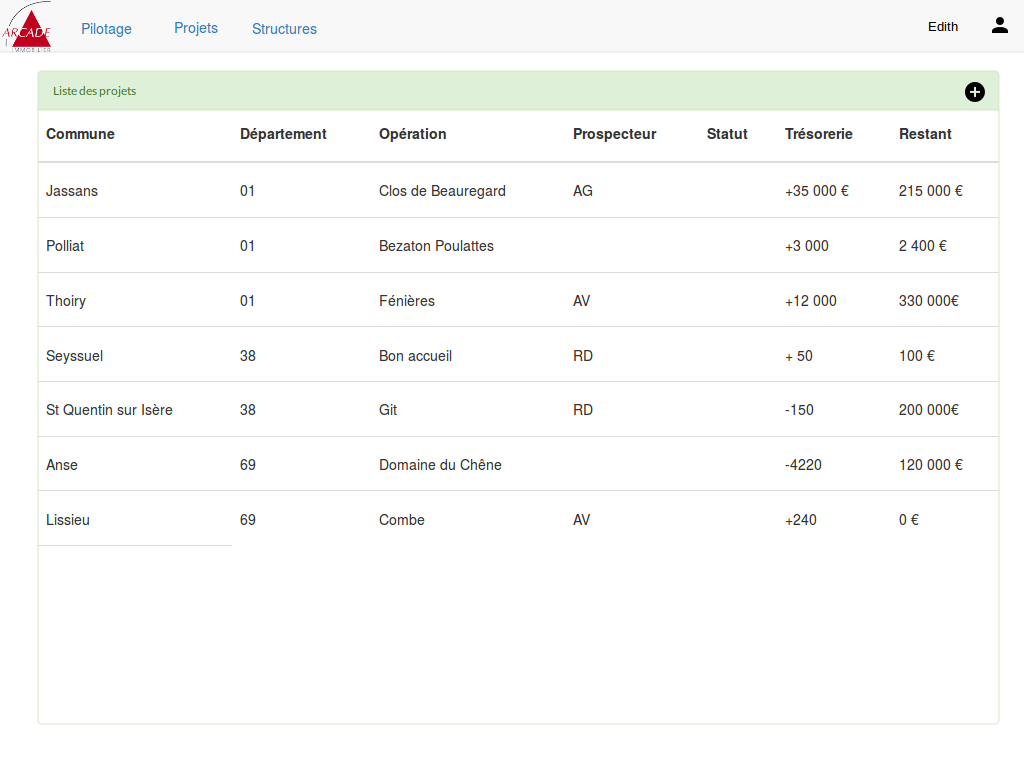
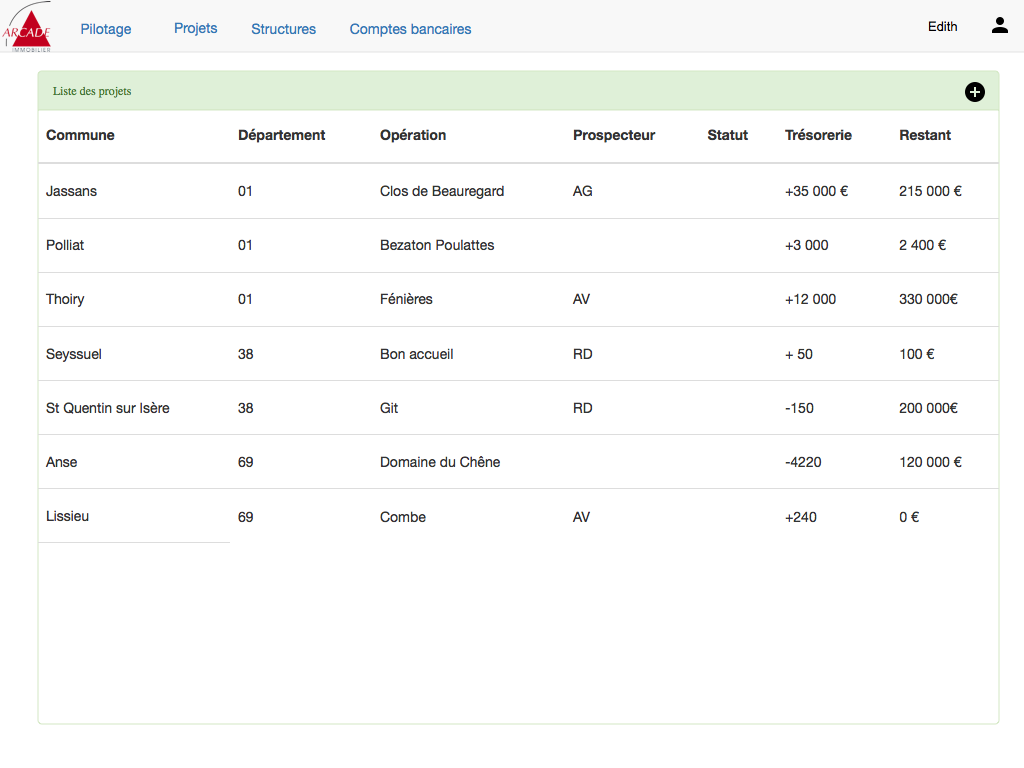
generate application

diff --git a/public/index.html b/public/index.html
@@ -1,3 +1,1 @@
-<html xmlns="http://www.w3.org/1999/xhtml"><head><meta http-equiv="Content-Type" content="text/html; charset=UTF-8" /><title>Maquette-Treso-V0.ep</title><script type="text/javascript" src="Resources/Script.js">
-                    //
-                </script></head><body><div id="page"><div id="content"><h1 id="documentTitle"><span>Maquette-Treso-V0.ep</span></h1><div class="Page" id="pilotage_page"><div class="Texts"><h2 class="Title">Pilotage</h2></div><div class="Image"><img width="1024" height="768" src="pages/pilotage.png" usemap="#map_pilotage" id="pilotage_page_image" /><div class="ImageFooter"> </div><map name="map_pilotage"><area shape="rect" coords="235,6,333,48" href="#listestructure_page" title="Go to page 'Liste-Structure'" /><area shape="rect" coords="147,5,245,47" href="#listeprojets_page" title="Go to page 'Liste-Projets'" /><area shape="rect" coords="57,6,155,48" href="#pilotage_page" title="Go to page 'Pilotage'" /><area shape="rect" coords="453,706,582,748" href="#simulation_page" title="Go to page 'Simulation'" /><area shape="rect" coords="666.5,158,968.6166687011719,381.8333282470703" href="#structure_page" title="Go to page 'Structure'" /><area shape="rect" coords="687.7833251953125,457,968.6166381835938,680.8166656494141" href="#projet_page" title="Go to page 'Projet'" /></map></div></div><div class="Page" id="simulation_page"><div class="Texts"><h2 class="Title">Simulation</h2></div><div class="Image"><img width="1024" height="768" src="pages/simulation.png" usemap="#map_simulation" id="simulation_page_image" /><div class="ImageFooter"> </div><map name="map_simulation"><area shape="rect" coords="235,6,333,48" href="#listestructure_page" title="Go to page 'Liste-Structure'" /><area shape="rect" coords="147,5,245,47" href="#listeprojets_page" title="Go to page 'Liste-Projets'" /><area shape="rect" coords="57,6,155,48" href="#pilotage_page" title="Go to page 'Pilotage'" /><area shape="rect" coords="963,338,987,362" href="#simulation_courtage_page" title="Go to page 'Simulation - Courtage'" /><area shape="rect" coords="963,580,987,604" href="#simulation_courtage_page" title="Go to page 'Simulation - Courtage'" /><area shape="rect" coords="963,458,987,482" href="#simulation_courtage_page" title="Go to page 'Simulation - Courtage'" /></map></div></div><div class="Page" id="simulation_courtage_page"><div class="Texts"><h2 class="Title">Simulation - Courtage</h2></div><div class="Image"><img width="1024" height="768" src="pages/simulation_courtage.png" usemap="#map_simulation_courtage" id="simulation_courtage_page_image" /><div class="ImageFooter"> </div><map name="map_simulation_courtage"><area shape="rect" coords="235,6,333,48" href="#listestructure_page" title="Go to page 'Liste-Structure'" /><area shape="rect" coords="147,5,245,47" href="#listeprojets_page" title="Go to page 'Liste-Projets'" /><area shape="rect" coords="58,5,156,47" href="#pilotage_page" title="Go to page 'Pilotage'" /><area shape="rect" coords="368,666,515,708" href="#simulation_page" title="Go to page 'Simulation'" /><area shape="rect" coords="541,665,679,707" href="#simulationrsultat_page" title="Go to page 'Simulation-Résultat'" /></map></div></div><div class="Page" id="simulationrsultat_page"><div class="Texts"><h2 class="Title">Simulation-Résultat</h2></div><div class="Image"><img width="1024" height="768" src="pages/simulationrsultat.png" usemap="#map_simulationrsultat" id="simulationrsultat_page_image" /><div class="ImageFooter"> </div><map name="map_simulationrsultat"><area shape="rect" coords="235,6,333,48" href="#listestructure_page" title="Go to page 'Liste-Structure'" /><area shape="rect" coords="147,5,245,47" href="#listeprojets_page" title="Go to page 'Liste-Projets'" /><area shape="rect" coords="57,6,155,48" href="#pilotage_page" title="Go to page 'Pilotage'" /></map></div></div><div class="Page" id="listeprojets_page"><div class="Texts"><h2 class="Title">Liste-Projets</h2></div><div class="Image"><img width="1024" height="768" src="pages/listeprojets.png" usemap="#map_listeprojets" id="listeprojets_page_image" /><div class="ImageFooter"> </div><map name="map_listeprojets"><area shape="rect" coords="235,6,333,48" href="#listestructure_page" title="Go to page 'Liste-Structure'" /><area shape="rect" coords="147,5,245,47" href="#listeprojets_page" title="Go to page 'Liste-Projets'" /><area shape="rect" coords="57,6,155,48" href="#pilotage_page" title="Go to page 'Pilotage'" /><area shape="rect" coords="38,107,999,569" href="#projet_page" title="Go to page 'Projet'" /></map></div></div><div class="Page" id="projet_page"><div class="Texts"><h2 class="Title">Projet</h2></div><div class="Image"><img width="1024" height="768" src="pages/projet.png" usemap="#map_projet" id="projet_page_image" /><div class="ImageFooter"> </div><map name="map_projet"><area shape="rect" coords="235,6,333,48" href="#listestructure_page" title="Go to page 'Liste-Structure'" /><area shape="rect" coords="147,5,245,47" href="#listeprojets_page" title="Go to page 'Liste-Projets'" /><area shape="rect" coords="57,6,155,48" href="#pilotage_page" title="Go to page 'Pilotage'" /><area shape="rect" coords="11,634,549,682" href="#projetvente_page" title="Go to page 'Projet-Vente'" /><area shape="rect" coords="12,388,550,436" href="#projetfoncier_page" title="Go to page 'Projet-Foncier'" /></map></div></div><div class="Page" id="projetfoncier_page"><div class="Texts"><h2 class="Title">Projet-Foncier</h2></div><div class="Image"><img width="1024" height="768" src="pages/projetfoncier.png" usemap="#map_projetfoncier" id="projetfoncier_page_image" /><div class="ImageFooter"> </div><map name="map_projetfoncier"><area shape="rect" coords="235,6,333,48" href="#listestructure_page" title="Go to page 'Liste-Structure'" /><area shape="rect" coords="147,5,245,47" href="#listeprojets_page" title="Go to page 'Liste-Projets'" /><area shape="rect" coords="57,6,155,48" href="#pilotage_page" title="Go to page 'Pilotage'" /><area shape="rect" coords="446.3833312988281,298.95001220703125,496.3999938964844,319.9666748046875" href="#echeanceremplies_page" title="Go to page 'Echeance-remplies'" /><area shape="rect" coords="446.7833251953125,329.20001220703125,498.34999084472656,350.2166748046875" href="#echeanceremplies_page" title="Go to page 'Echeance-remplies'" /><area shape="rect" coords="446.51666259765625,267.1499938964844,498.0833282470703,288.1666717529297" href="#echeancevide_page" title="Go to page 'Echeance-vide'" /><area shape="rect" coords="12,107,550,155" href="#projet_page" title="Go to page 'Projet'" /><area shape="rect" coords="11,634,549,682" href="#projetvente_page" title="Go to page 'Projet-Vente'" /></map></div></div><div class="Page" id="projetvente_page"><div class="Texts"><h2 class="Title">Projet-Vente</h2></div><div class="Image"><img width="1024" height="768" src="pages/projetvente.png" usemap="#map_projetvente" id="projetvente_page_image" /><div class="ImageFooter"> </div><map name="map_projetvente"><area shape="rect" coords="235,6,333,48" href="#listestructure_page" title="Go to page 'Liste-Structure'" /><area shape="rect" coords="466.51666259765625,624.1500244140625,518.0833282470703,645.1667022705078" href="#echeancevente_page" title="Go to page 'Echeance-vente'" /><area shape="rect" coords="466.51666259765625,591.1500244140625,518.0833282470703,612.1667022705078" href="#echeancevente_page" title="Go to page 'Echeance-vente'" /><area shape="rect" coords="465.51666259765625,477.1499938964844,517.0833282470703,498.1666717529297" href="#echeancevente_page" title="Go to page 'Echeance-vente'" /><area shape="rect" coords="466.51666259765625,535.1500244140625,518.0833282470703,556.1667022705078" href="#echeancevente_page" title="Go to page 'Echeance-vente'" /><area shape="rect" coords="465.7833251953125,507.20001220703125,517.3499908447266,528.2166748046875" href="#echeancevente_page" title="Go to page 'Echeance-vente'" /><area shape="rect" coords="468.3833312988281,562.9500122070312,518.3999938964844,583.9666748046875" href="#echeancevente_page" title="Go to page 'Echeance-vente'" /><area shape="rect" coords="147,5,245,47" href="#listeprojets_page" title="Go to page 'Liste-Projets'" /><area shape="rect" coords="57,6,155,48" href="#pilotage_page" title="Go to page 'Pilotage'" /><area shape="rect" coords="12,107,550,155" href="#projet_page" title="Go to page 'Projet'" /><area shape="rect" coords="13,147,550,194" href="#projetfoncier_page" title="Go to page 'Projet-Foncier'" /></map></div></div><div class="Page" id="echeancevide_page"><div class="Texts"><h2 class="Title">Echeance-vide</h2></div><div class="Image"><img width="1024" height="768" src="pages/echeancevide.png" usemap="#map_echeancevide" id="echeancevide_page_image" /><div class="ImageFooter"> </div><map name="map_echeancevide"><area shape="rect" coords="235,6,333,48" href="#listestructure_page" title="Go to page 'Liste-Structure'" /><area shape="rect" coords="147,5,245,47" href="#listeprojets_page" title="Go to page 'Liste-Projets'" /><area shape="rect" coords="57,6,155,48" href="#pilotage_page" title="Go to page 'Pilotage'" /><area shape="rect" coords="475,555,569,597" href="#projetfoncier_page" title="Go to page 'Projet-Foncier'" /><area shape="rect" coords="330,556,432,598" href="#projetfoncier_page" title="Go to page 'Projet-Foncier'" /></map></div></div><div class="Page" id="echeanceremplies_page"><div class="Texts"><h2 class="Title">Echeance-remplies</h2></div><div class="Image"><img width="1024" height="768" src="pages/echeanceremplies.png" usemap="#map_echeanceremplies" id="echeanceremplies_page_image" /><div class="ImageFooter"> </div><map name="map_echeanceremplies"><area shape="rect" coords="235,6,333,48" href="#listestructure_page" title="Go to page 'Liste-Structure'" /><area shape="rect" coords="147,5,245,47" href="#listeprojets_page" title="Go to page 'Liste-Projets'" /><area shape="rect" coords="57,6,155,48" href="#pilotage_page" title="Go to page 'Pilotage'" /><area shape="rect" coords="474,571,568,613" href="#projetfoncier_page" title="Go to page 'Projet-Foncier'" /><area shape="rect" coords="329,572,431,614" href="#projetfoncier_page" title="Go to page 'Projet-Foncier'" /></map></div></div><div class="Page" id="echeancevente_page"><div class="Texts"><h2 class="Title">Echeance-vente</h2></div><div class="Image"><img width="1024" height="768" src="pages/echeancevente.png" usemap="#map_echeancevente" id="echeancevente_page_image" /><div class="ImageFooter"> </div><map name="map_echeancevente"><area shape="rect" coords="235,6,333,48" href="#listestructure_page" title="Go to page 'Liste-Structure'" /><area shape="rect" coords="147,5,245,47" href="#listeprojets_page" title="Go to page 'Liste-Projets'" /><area shape="rect" coords="57,6,155,48" href="#pilotage_page" title="Go to page 'Pilotage'" /><area shape="rect" coords="474,571,568,613" href="#projetvente_page" title="Go to page 'Projet-Vente'" /><area shape="rect" coords="329,572,431,614" href="#projetvente_page" title="Go to page 'Projet-Vente'" /></map></div></div><div class="Page" id="listestructure_page"><div class="Texts"><h2 class="Title">Liste-Structure</h2></div><div class="Image"><img width="1024" height="768" src="pages/listestructure.png" usemap="#map_listestructure" id="listestructure_page_image" /><div class="ImageFooter"> </div><map name="map_listestructure"><area shape="rect" coords="235,6,333,48" href="#listestructure_page" title="Go to page 'Liste-Structure'" /><area shape="rect" coords="147,5,245,47" href="#listeprojets_page" title="Go to page 'Liste-Projets'" /><area shape="rect" coords="57,6,155,48" href="#pilotage_page" title="Go to page 'Pilotage'" /><area shape="rect" coords="37,108,999,406" href="#structure_page" title="Go to page 'Structure'" /></map></div></div><div class="Page" id="structure_page"><div class="Texts"><h2 class="Title">Structure</h2></div><div class="Image"><img width="1024" height="768" src="pages/structure.png" usemap="#map_structure" id="structure_page_image" /><div class="ImageFooter"> </div><map name="map_structure"><area shape="rect" coords="235,6,333,48" href="#listestructure_page" title="Go to page 'Liste-Structure'" /><area shape="rect" coords="147,6,245,48" href="#listeprojets_page" title="Go to page 'Liste-Projets'" /><area shape="rect" coords="57,6,155,48" href="#pilotage_page" title="Go to page 'Pilotage'" /></map></div></div><div id="navigator"><div class="NavLink" id="prevLink"><div class="Wrapper"><a href="#"> </a></div></div><div class="NavLink NavNextLink" id="nextLink"><div class="Wrapper"><a href="#"> </a></div></div></div></div><div id="footer"></div></div></body></html>
+<html xmlns="http://www.w3.org/1999/xhtml"><head><meta http-equiv="Content-Type" content="text/html; charset=UTF-8" /><title>Maquette-Treso-V0.ep</title><link rel="stylesheet" href="Resources/SampleStyle.css" /></head><body><h1 id="documentTitle">Maquette-Treso-V0.ep</h1><p id="documentMetadata">Exported at: Wed Jul 27 2016 11:54:40 GMT+0200 (CEST)</p><div class="Page" id="pilotage_page"><h2>Pilotage</h2><div class="ImageContainer"><img width="1024" height="768" src="pages/pilotage.png" usemap="#map_pilotage" /></div><map name="map_pilotage"><area shape="rect" coords="309,8,511.6999969482422,50" href="#comptes_structure_page" title="Go to page 'Comptes structure'" /><area shape="rect" coords="235,6,333,48" href="#listestructure_page" title="Go to page 'Liste-Structure'" /><area shape="rect" coords="147,5,245,47" href="#listeprojets_page" title="Go to page 'Liste-Projets'" /><area shape="rect" coords="57,6,155,48" href="#pilotage_page" title="Go to page 'Pilotage'" /><area shape="rect" coords="453,706,582,748" href="#simulation_page" title="Go to page 'Simulation'" /><area shape="rect" coords="666.5,158,968.6166687011719,381.8333282470703" href="#structure_page" title="Go to page 'Structure'" /><area shape="rect" coords="687.7833251953125,457,968.6166381835938,680.8166656494141" href="#projet_page" title="Go to page 'Projet'" /></map></div><div class="Page" id="simulation_page"><h2>Simulation</h2><div class="ImageContainer"><img width="1024" height="768" src="pages/simulation.png" usemap="#map_simulation" /></div><map name="map_simulation"><area shape="rect" coords="309,8,511.6999969482422,50" href="#comptes_structure_page" title="Go to page 'Comptes structure'" /><area shape="rect" coords="235,6,333,48" href="#listestructure_page" title="Go to page 'Liste-Structure'" /><area shape="rect" coords="147,5,245,47" href="#listeprojets_page" title="Go to page 'Liste-Projets'" /><area shape="rect" coords="57,6,155,48" href="#pilotage_page" title="Go to page 'Pilotage'" /><area shape="rect" coords="963,338,987,362" href="#simulation_courtage_page" title="Go to page 'Simulation - Courtage'" /><area shape="rect" coords="963,580,987,604" href="#simulation_courtage_page" title="Go to page 'Simulation - Courtage'" /><area shape="rect" coords="963,458,987,482" href="#simulation_courtage_page" title="Go to page 'Simulation - Courtage'" /></map></div><div class="Page" id="simulation_courtage_page"><h2>Simulation - Courtage</h2><div class="ImageContainer"><img width="1024" height="768" src="pages/simulation_courtage.png" usemap="#map_simulation_courtage" /></div><map name="map_simulation_courtage"><area shape="rect" coords="309,8,511.6999969482422,50" href="#listestructure_page" title="Go to page 'Liste-Structure'" /><area shape="rect" coords="235,6,333,48" href="#listestructure_page" title="Go to page 'Liste-Structure'" /><area shape="rect" coords="147,5,245,47" href="#listeprojets_page" title="Go to page 'Liste-Projets'" /><area shape="rect" coords="58,5,156,47" href="#pilotage_page" title="Go to page 'Pilotage'" /><area shape="rect" coords="368,666,515,708" href="#simulation_page" title="Go to page 'Simulation'" /><area shape="rect" coords="541,665,679,707" href="#simulationrsultat_page" title="Go to page 'Simulation-Résultat'" /></map></div><div class="Page" id="simulationrsultat_page"><h2>Simulation-Résultat</h2><div class="ImageContainer"><img width="1024" height="768" src="pages/simulationrsultat.png" usemap="#map_simulationrsultat" /></div><map name="map_simulationrsultat"><area shape="rect" coords="309,8,511.6999969482422,50" href="#comptes_structure_page" title="Go to page 'Comptes structure'" /><area shape="rect" coords="235,6,333,48" href="#listestructure_page" title="Go to page 'Liste-Structure'" /><area shape="rect" coords="147,5,245,47" href="#listeprojets_page" title="Go to page 'Liste-Projets'" /><area shape="rect" coords="57,6,155,48" href="#pilotage_page" title="Go to page 'Pilotage'" /></map></div><div class="Page" id="listeprojets_page"><h2>Liste-Projets</h2><div class="ImageContainer"><img width="1024" height="768" src="pages/listeprojets.png" usemap="#map_listeprojets" /></div><map name="map_listeprojets"><area shape="rect" coords="309,8,511.6999969482422,50" href="#comptes_structure_page" title="Go to page 'Comptes structure'" /><area shape="rect" coords="235,6,333,48" href="#listestructure_page" title="Go to page 'Liste-Structure'" /><area shape="rect" coords="147,5,245,47" href="#listeprojets_page" title="Go to page 'Liste-Projets'" /><area shape="rect" coords="57,6,155,48" href="#pilotage_page" title="Go to page 'Pilotage'" /><area shape="rect" coords="38,107,999,569" href="#projet_page" title="Go to page 'Projet'" /></map></div><div class="Page" id="projet_page"><h2>Projet</h2><div class="ImageContainer"><img width="1024" height="768" src="pages/projet.png" usemap="#map_projet" /></div><map name="map_projet"><area shape="rect" coords="309,8,511.6999969482422,50" href="#comptes_structure_page" title="Go to page 'Comptes structure'" /><area shape="rect" coords="235,6,333,48" href="#listestructure_page" title="Go to page 'Liste-Structure'" /><area shape="rect" coords="147,5,245,47" href="#listeprojets_page" title="Go to page 'Liste-Projets'" /><area shape="rect" coords="57,6,155,48" href="#pilotage_page" title="Go to page 'Pilotage'" /><area shape="rect" coords="11,634,549,682" href="#projetvente_page" title="Go to page 'Projet-Vente'" /><area shape="rect" coords="12,388,550,436" href="#projetfoncier_page" title="Go to page 'Projet-Foncier'" /></map></div><div class="Page" id="projetfoncier_page"><h2>Projet-Foncier</h2><div class="ImageContainer"><img width="1024" height="768" src="pages/projetfoncier.png" usemap="#map_projetfoncier" /></div><map name="map_projetfoncier"><area shape="rect" coords="309,8,511.6999969482422,50" href="#comptes_structure_page" title="Go to page 'Comptes structure'" /><area shape="rect" coords="235,6,333,48" href="#listestructure_page" title="Go to page 'Liste-Structure'" /><area shape="rect" coords="147,5,245,47" href="#listeprojets_page" title="Go to page 'Liste-Projets'" /><area shape="rect" coords="57,6,155,48" href="#pilotage_page" title="Go to page 'Pilotage'" /><area shape="rect" coords="446.3833312988281,298.95001220703125,496.3999938964844,319.9666748046875" href="#echeanceremplies_page" title="Go to page 'Echeance-remplies'" /><area shape="rect" coords="446.7833251953125,329.20001220703125,498.34999084472656,350.2166748046875" href="#echeanceremplies_page" title="Go to page 'Echeance-remplies'" /><area shape="rect" coords="446.51666259765625,267.1499938964844,498.0833282470703,288.1666717529297" href="#echeancevide_page" title="Go to page 'Echeance-vide'" /><area shape="rect" coords="12,107,550,155" href="#projet_page" title="Go to page 'Projet'" /><area shape="rect" coords="11,634,549,682" href="#projetvente_page" title="Go to page 'Projet-Vente'" /></map></div><div class="Page" id="projetvente_page"><h2>Projet-Vente</h2><div class="ImageContainer"><img width="1024" height="768" src="pages/projetvente.png" usemap="#map_projetvente" /></div><map name="map_projetvente"><area shape="rect" coords="309,8,511.6999969482422,50" href="#comptes_structure_page" title="Go to page 'Comptes structure'" /><area shape="rect" coords="235,6,333,48" href="#listestructure_page" title="Go to page 'Liste-Structure'" /><area shape="rect" coords="466.51666259765625,624.1500244140625,518.0833282470703,645.1667022705078" href="#echeancevente_page" title="Go to page 'Echeance-vente'" /><area shape="rect" coords="466.51666259765625,591.1500244140625,518.0833282470703,612.1667022705078" href="#echeancevente_page" title="Go to page 'Echeance-vente'" /><area shape="rect" coords="465.51666259765625,477.1499938964844,517.0833282470703,498.1666717529297" href="#echeancevente_page" title="Go to page 'Echeance-vente'" /><area shape="rect" coords="466.51666259765625,535.1500244140625,518.0833282470703,556.1667022705078" href="#echeancevente_page" title="Go to page 'Echeance-vente'" /><area shape="rect" coords="465.7833251953125,507.20001220703125,517.3499908447266,528.2166748046875" href="#echeancevente_page" title="Go to page 'Echeance-vente'" /><area shape="rect" coords="468.3833312988281,562.9500122070312,518.3999938964844,583.9666748046875" href="#echeancevente_page" title="Go to page 'Echeance-vente'" /><area shape="rect" coords="147,5,245,47" href="#listeprojets_page" title="Go to page 'Liste-Projets'" /><area shape="rect" coords="57,6,155,48" href="#pilotage_page" title="Go to page 'Pilotage'" /><area shape="rect" coords="12,107,550,155" href="#projet_page" title="Go to page 'Projet'" /><area shape="rect" coords="13,147,550,194" href="#projetfoncier_page" title="Go to page 'Projet-Foncier'" /></map></div><div class="Page" id="echeancevide_page"><h2>Echeance-vide</h2><div class="ImageContainer"><img width="1024" height="768" src="pages/echeancevide.png" usemap="#map_echeancevide" /></div><map name="map_echeancevide"><area shape="rect" coords="309,8,511.6999969482422,50" href="#listestructure_page" title="Go to page 'Liste-Structure'" /><area shape="rect" coords="235,6,333,48" href="#listestructure_page" title="Go to page 'Liste-Structure'" /><area shape="rect" coords="147,5,245,47" href="#listeprojets_page" title="Go to page 'Liste-Projets'" /><area shape="rect" coords="57,6,155,48" href="#pilotage_page" title="Go to page 'Pilotage'" /><area shape="rect" coords="475,555,569,597" href="#projetfoncier_page" title="Go to page 'Projet-Foncier'" /><area shape="rect" coords="330,556,432,598" href="#projetfoncier_page" title="Go to page 'Projet-Foncier'" /></map></div><div class="Page" id="echeanceremplies_page"><h2>Echeance-remplies</h2><div class="ImageContainer"><img width="1024" height="768" src="pages/echeanceremplies.png" usemap="#map_echeanceremplies" /></div><map name="map_echeanceremplies"><area shape="rect" coords="309,8,511.6999969482422,50" href="#listestructure_page" title="Go to page 'Liste-Structure'" /><area shape="rect" coords="235,6,333,48" href="#listestructure_page" title="Go to page 'Liste-Structure'" /><area shape="rect" coords="147,5,245,47" href="#listeprojets_page" title="Go to page 'Liste-Projets'" /><area shape="rect" coords="57,6,155,48" href="#pilotage_page" title="Go to page 'Pilotage'" /><area shape="rect" coords="474,571,568,613" href="#projetfoncier_page" title="Go to page 'Projet-Foncier'" /><area shape="rect" coords="329,572,431,614" href="#projetfoncier_page" title="Go to page 'Projet-Foncier'" /></map></div><div class="Page" id="echeancevente_page"><h2>Echeance-vente</h2><div class="ImageContainer"><img width="1024" height="768" src="pages/echeancevente.png" usemap="#map_echeancevente" /></div><map name="map_echeancevente"><area shape="rect" coords="309,8,511.6999969482422,50" href="#comptes_structure_page" title="Go to page 'Comptes structure'" /><area shape="rect" coords="235,6,333,48" href="#listestructure_page" title="Go to page 'Liste-Structure'" /><area shape="rect" coords="147,5,245,47" href="#listeprojets_page" title="Go to page 'Liste-Projets'" /><area shape="rect" coords="57,6,155,48" href="#pilotage_page" title="Go to page 'Pilotage'" /><area shape="rect" coords="474,571,568,613" href="#projetvente_page" title="Go to page 'Projet-Vente'" /><area shape="rect" coords="329,572,431,614" href="#projetvente_page" title="Go to page 'Projet-Vente'" /></map></div><div class="Page" id="listestructure_page"><h2>Liste-Structure</h2><div class="ImageContainer"><img width="1024" height="768" src="pages/listestructure.png" usemap="#map_listestructure" /></div><map name="map_listestructure"><area shape="rect" coords="309,8,511.6999969482422,50" href="#comptes_structure_page" title="Go to page 'Comptes structure'" /><area shape="rect" coords="235,6,333,48" href="#listestructure_page" title="Go to page 'Liste-Structure'" /><area shape="rect" coords="147,5,245,47" href="#listeprojets_page" title="Go to page 'Liste-Projets'" /><area shape="rect" coords="57,6,155,48" href="#pilotage_page" title="Go to page 'Pilotage'" /><area shape="rect" coords="37,108,999,406" href="#structure_page" title="Go to page 'Structure'" /></map></div><div class="Page" id="structure_page"><h2>Structure</h2><div class="ImageContainer"><img width="1024" height="768" src="pages/structure.png" usemap="#map_structure" /></div><map name="map_structure"><area shape="rect" coords="309,8,511.6999969482422,50" href="#comptes_structure_page" title="Go to page 'Comptes structure'" /><area shape="rect" coords="235,6,333,48" href="#listestructure_page" title="Go to page 'Liste-Structure'" /><area shape="rect" coords="147,6,245,48" href="#listeprojets_page" title="Go to page 'Liste-Projets'" /><area shape="rect" coords="57,6,155,48" href="#pilotage_page" title="Go to page 'Pilotage'" /></map></div><div class="Page" id="comptes_structure_page"><h2>Comptes structure</h2><div class="ImageContainer"><img width="1024" height="768" src="pages/comptes_structure.png" usemap="#map_comptes_structure" /></div><map name="map_comptes_structure"><area shape="rect" coords="309,8,511.6999969482422,50" href="#listestructure_page" title="Go to page 'Liste-Structure'" /><area shape="rect" coords="235,6,333,48" href="#listestructure_page" title="Go to page 'Liste-Structure'" /><area shape="rect" coords="147,6,245,48" href="#listeprojets_page" title="Go to page 'Liste-Projets'" /><area shape="rect" coords="57,6,155,48" href="#pilotage_page" title="Go to page 'Pilotage'" /></map></div></body></html>
